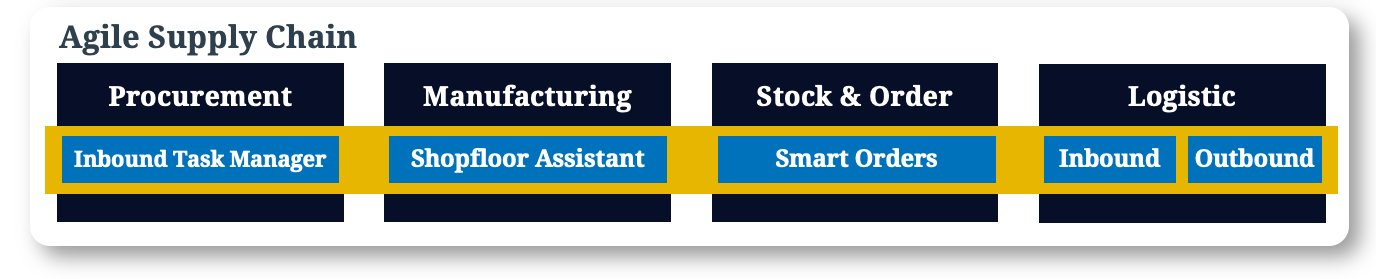
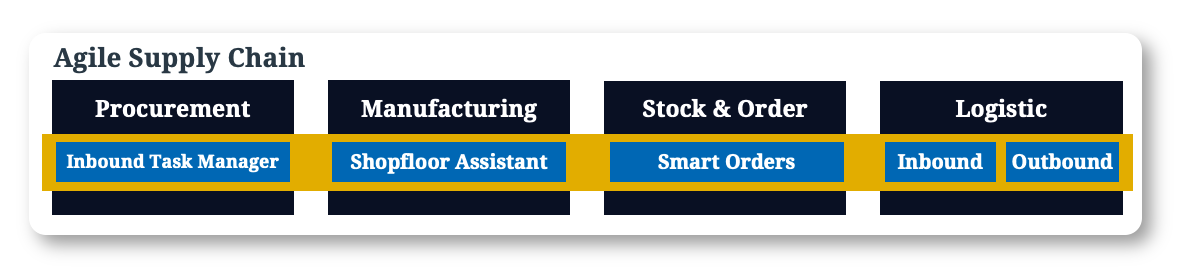
Antes de probar el camino de migas por contexto

diff --git a/header.html b/header.html
@@ -29,7 +29,7 @@
     <span x-text="language"></span>
     <span class="material-symbols-outlined text-base" x-bind:class="{ 'rotate-180': open }">expand_more</span>
   </button>
-  <div x-show="open" 
+  <div x-show="open"
        @click.away="open = false"
        x-transition:enter="transition ease-out duration-100"
        x-transition:enter-start="transform opacity-0 scale-95"
@@ -39,18 +39,15 @@
        x-transition:leave-end="transform opacity-0 scale-95"
        class="absolute right-0 mt-2 w-36 rounded-md shadow-lg bg-white ring-1 ring-black ring-opacity-5 z-50">
     <div class="py-1" role="menu" aria-orientation="vertical">
-      <a href="#" @click.prevent="language = 'English'; open = false" 
+      <a href="#" @click.prevent="language = 'English'; open = false"
          class="block px-4 py-2 text-sm text-slate-700 hover:bg-gray-100 hover:text-[#1672ce]" role="menuitem">English</a>
-      <a href="#" @click.prevent="language = 'Español'; open = false" 
+      <a href="#" @click.prevent="language = 'Español'; open = false"
          class="block px-4 py-2 text-sm text-slate-700 hover:bg-gray-100 hover:text-[#1672ce]" role="menuitem">Español</a>
-      <a href="#" @click.prevent="language = '日本語'; open = false" 
+      <a href="#" @click.prevent="language = '日本語'; open = false"
          class="block px-4 py-2 text-sm text-slate-700 hover:bg-gray-100 hover:text-[#1672ce]" role="menuitem">日本語</a>
     </div>
   </div>
 </div>
-<button class="hidden md:flex min-w-[90px] max-w-[480px] cursor-pointer items-center justify-center overflow-hidden rounded-md h-10 px-4 bg-gray-100 text-slate-800 text-sm font-semibold leading-normal tracking-[0.015em] hover:bg-gray-200 transition-colors">
-<span class="truncate">Log In</span>
-</button>
 <button class="md:hidden text-slate-700">
 <span class="material-symbols-outlined">menu</span>
 </button>

diff --git a/processes/index.html b/processes/index.html
@@ -124,10 +124,10 @@
         <section class="mb-12">
           <!-- Images Section -->
           <div class="max-w-6xl mx-auto mb-6 flex flex-col items-center">
-            <img src="../images/processes/Agile Supply Chain.png" alt="Agile Supply Chain" class="mb-4 max-w-full h-auto">
             <a href="./manufacturing-cpg/cpg/smart-order-management.html">
-              <img src="../images/processes/Smart Demand Process.png" alt="Smart Demand Process" class="mb-4 max-w-full h-auto">
+              <img src="../images/processes/Smart Demand.png" alt="Smart Demand Process" class="mb-4 max-w-full h-auto">
             </a>
+            <img src="../images/processes/Agile Supply Chain.png" alt="Agile Supply Chain" class="mb-4 max-w-full h-auto">
             <img src="../images/processes/Smart Product Engineering.png" alt="Smart Product Engineering" class="max-w-full h-auto">
           </div>
 

diff --git a/processes/manufacturing-cpg/cpg/smart-order-management.html b/processes/manufacturing-cpg/cpg/smart-order-management.html
@@ -133,7 +133,7 @@
                                             <img src="../../../images/processes/cpg/success_3.jpg" alt="Shoe shop" class="w-full h-full object-cover"/>
                                         </div>
                                         <div>
-                                            <h3 class="text-slate-900 text-lg font-semibold leading-tight">Cosmetics Brand</h3>
+                                            <h3 class="text-slate-900 text-lg font-semibold leading-tight">Cosmetics Brand Transformation</h3>
                                             <p class="text-slate-600 text-sm font-normal leading-normal mt-2">Implemented smart order management processes resulting in 30% efficiency improvement and 25% reduction in downtime.</p>
                                         </div>
                                     </div>
